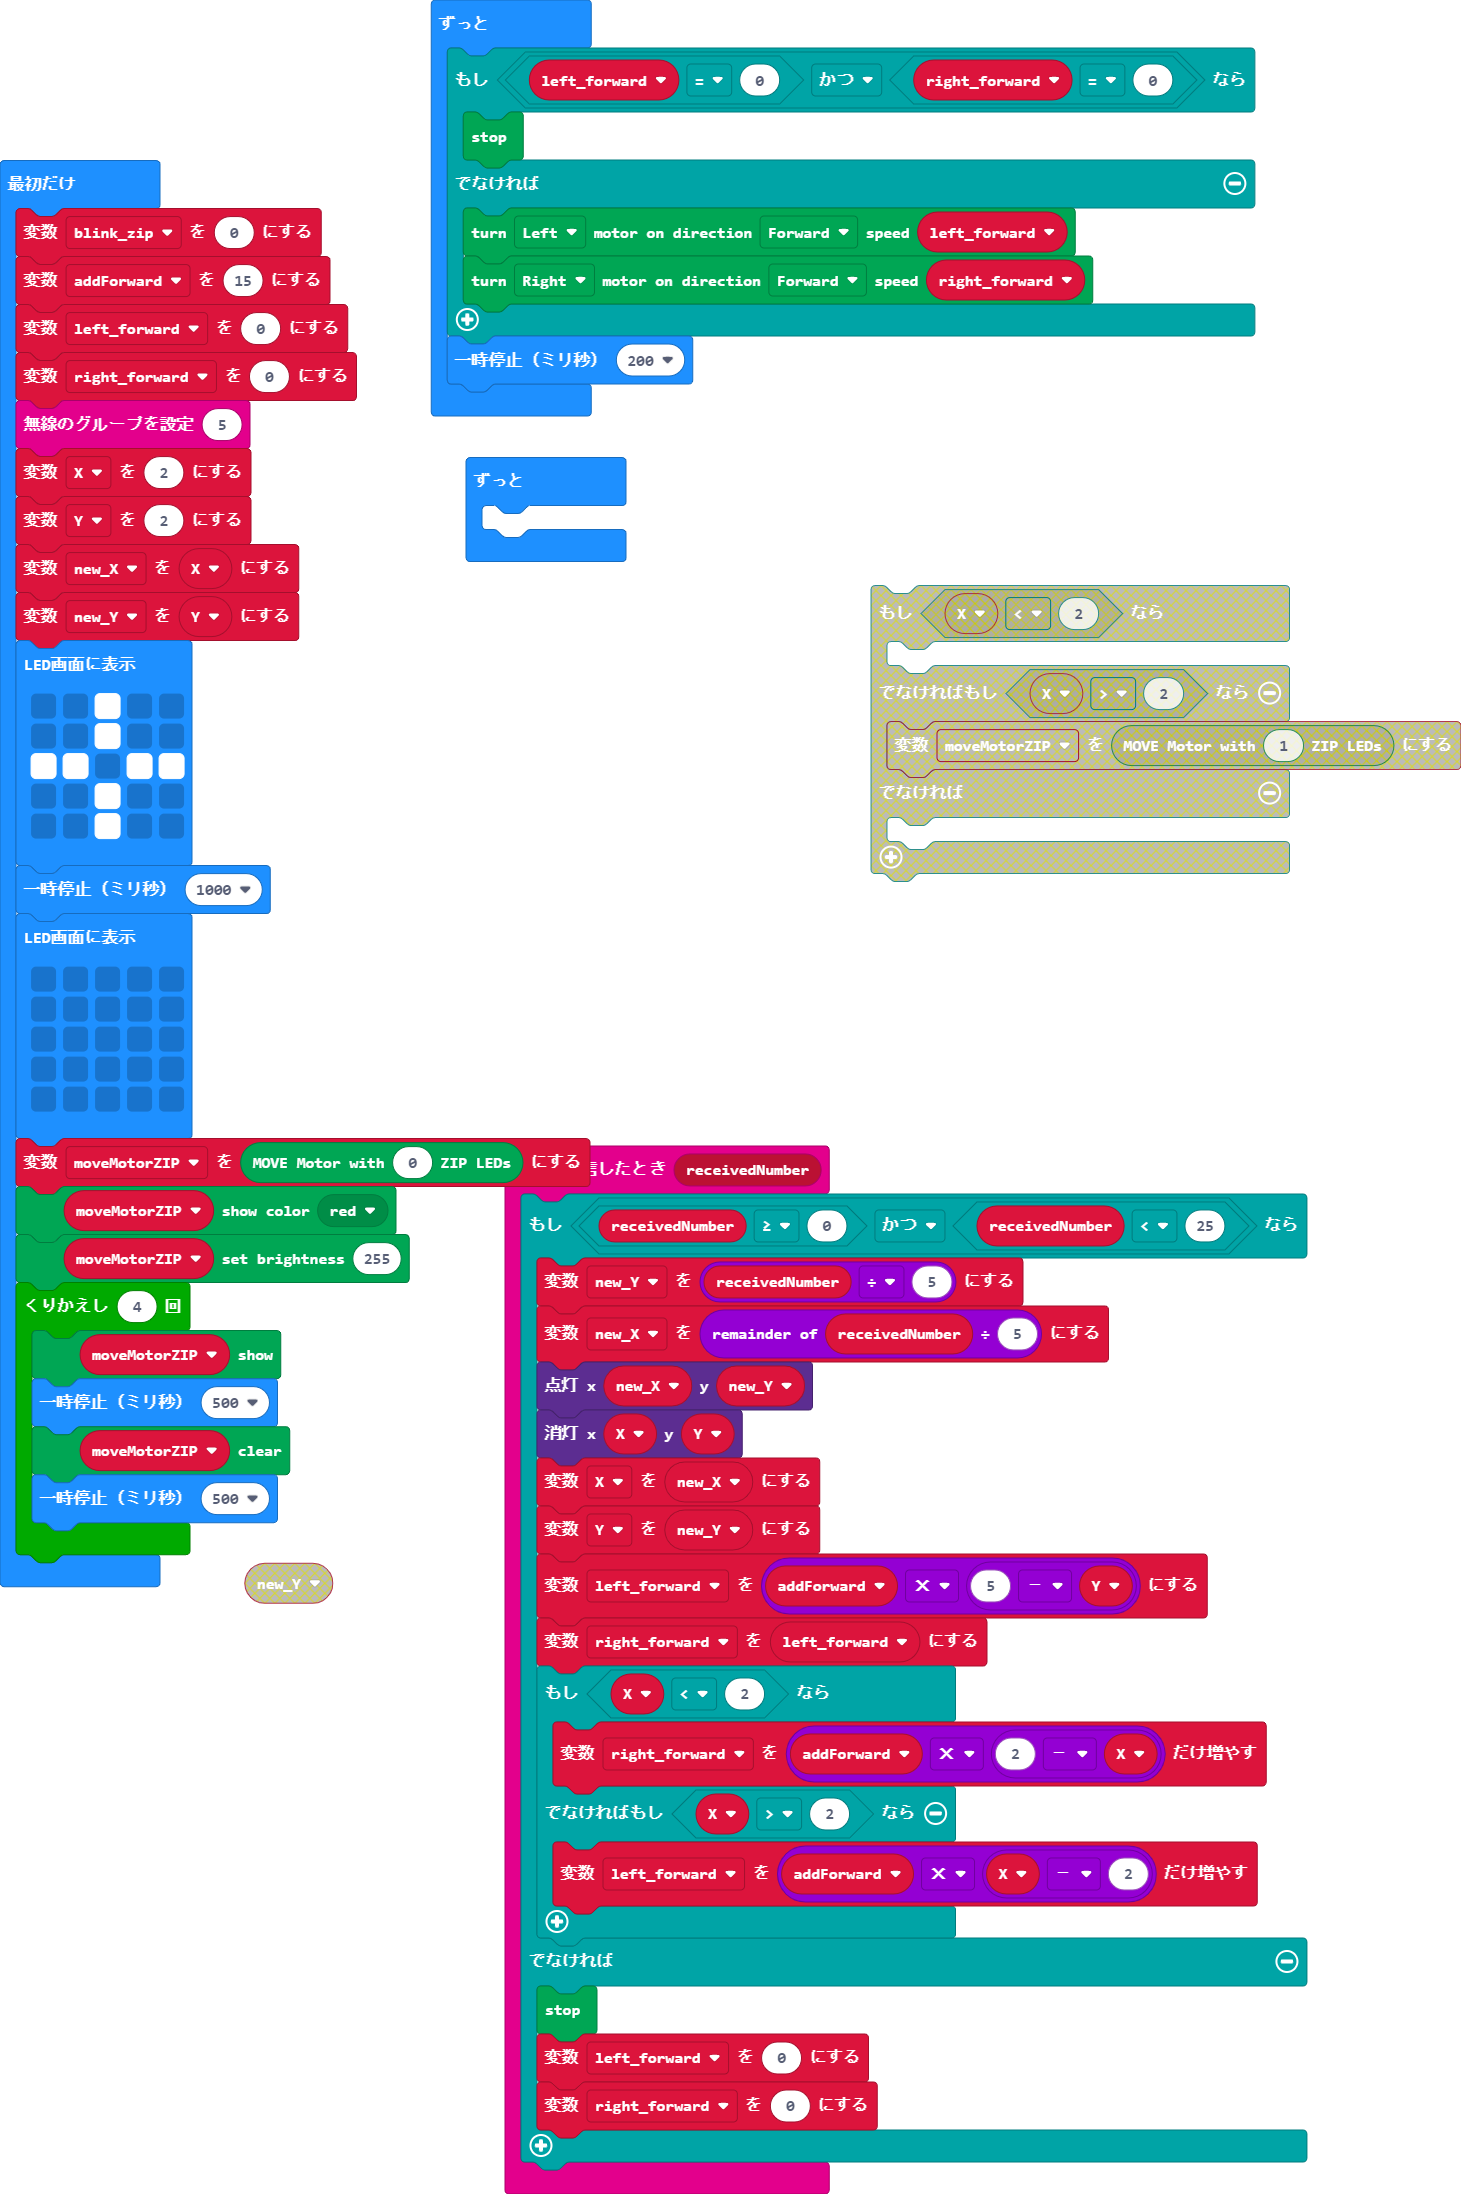
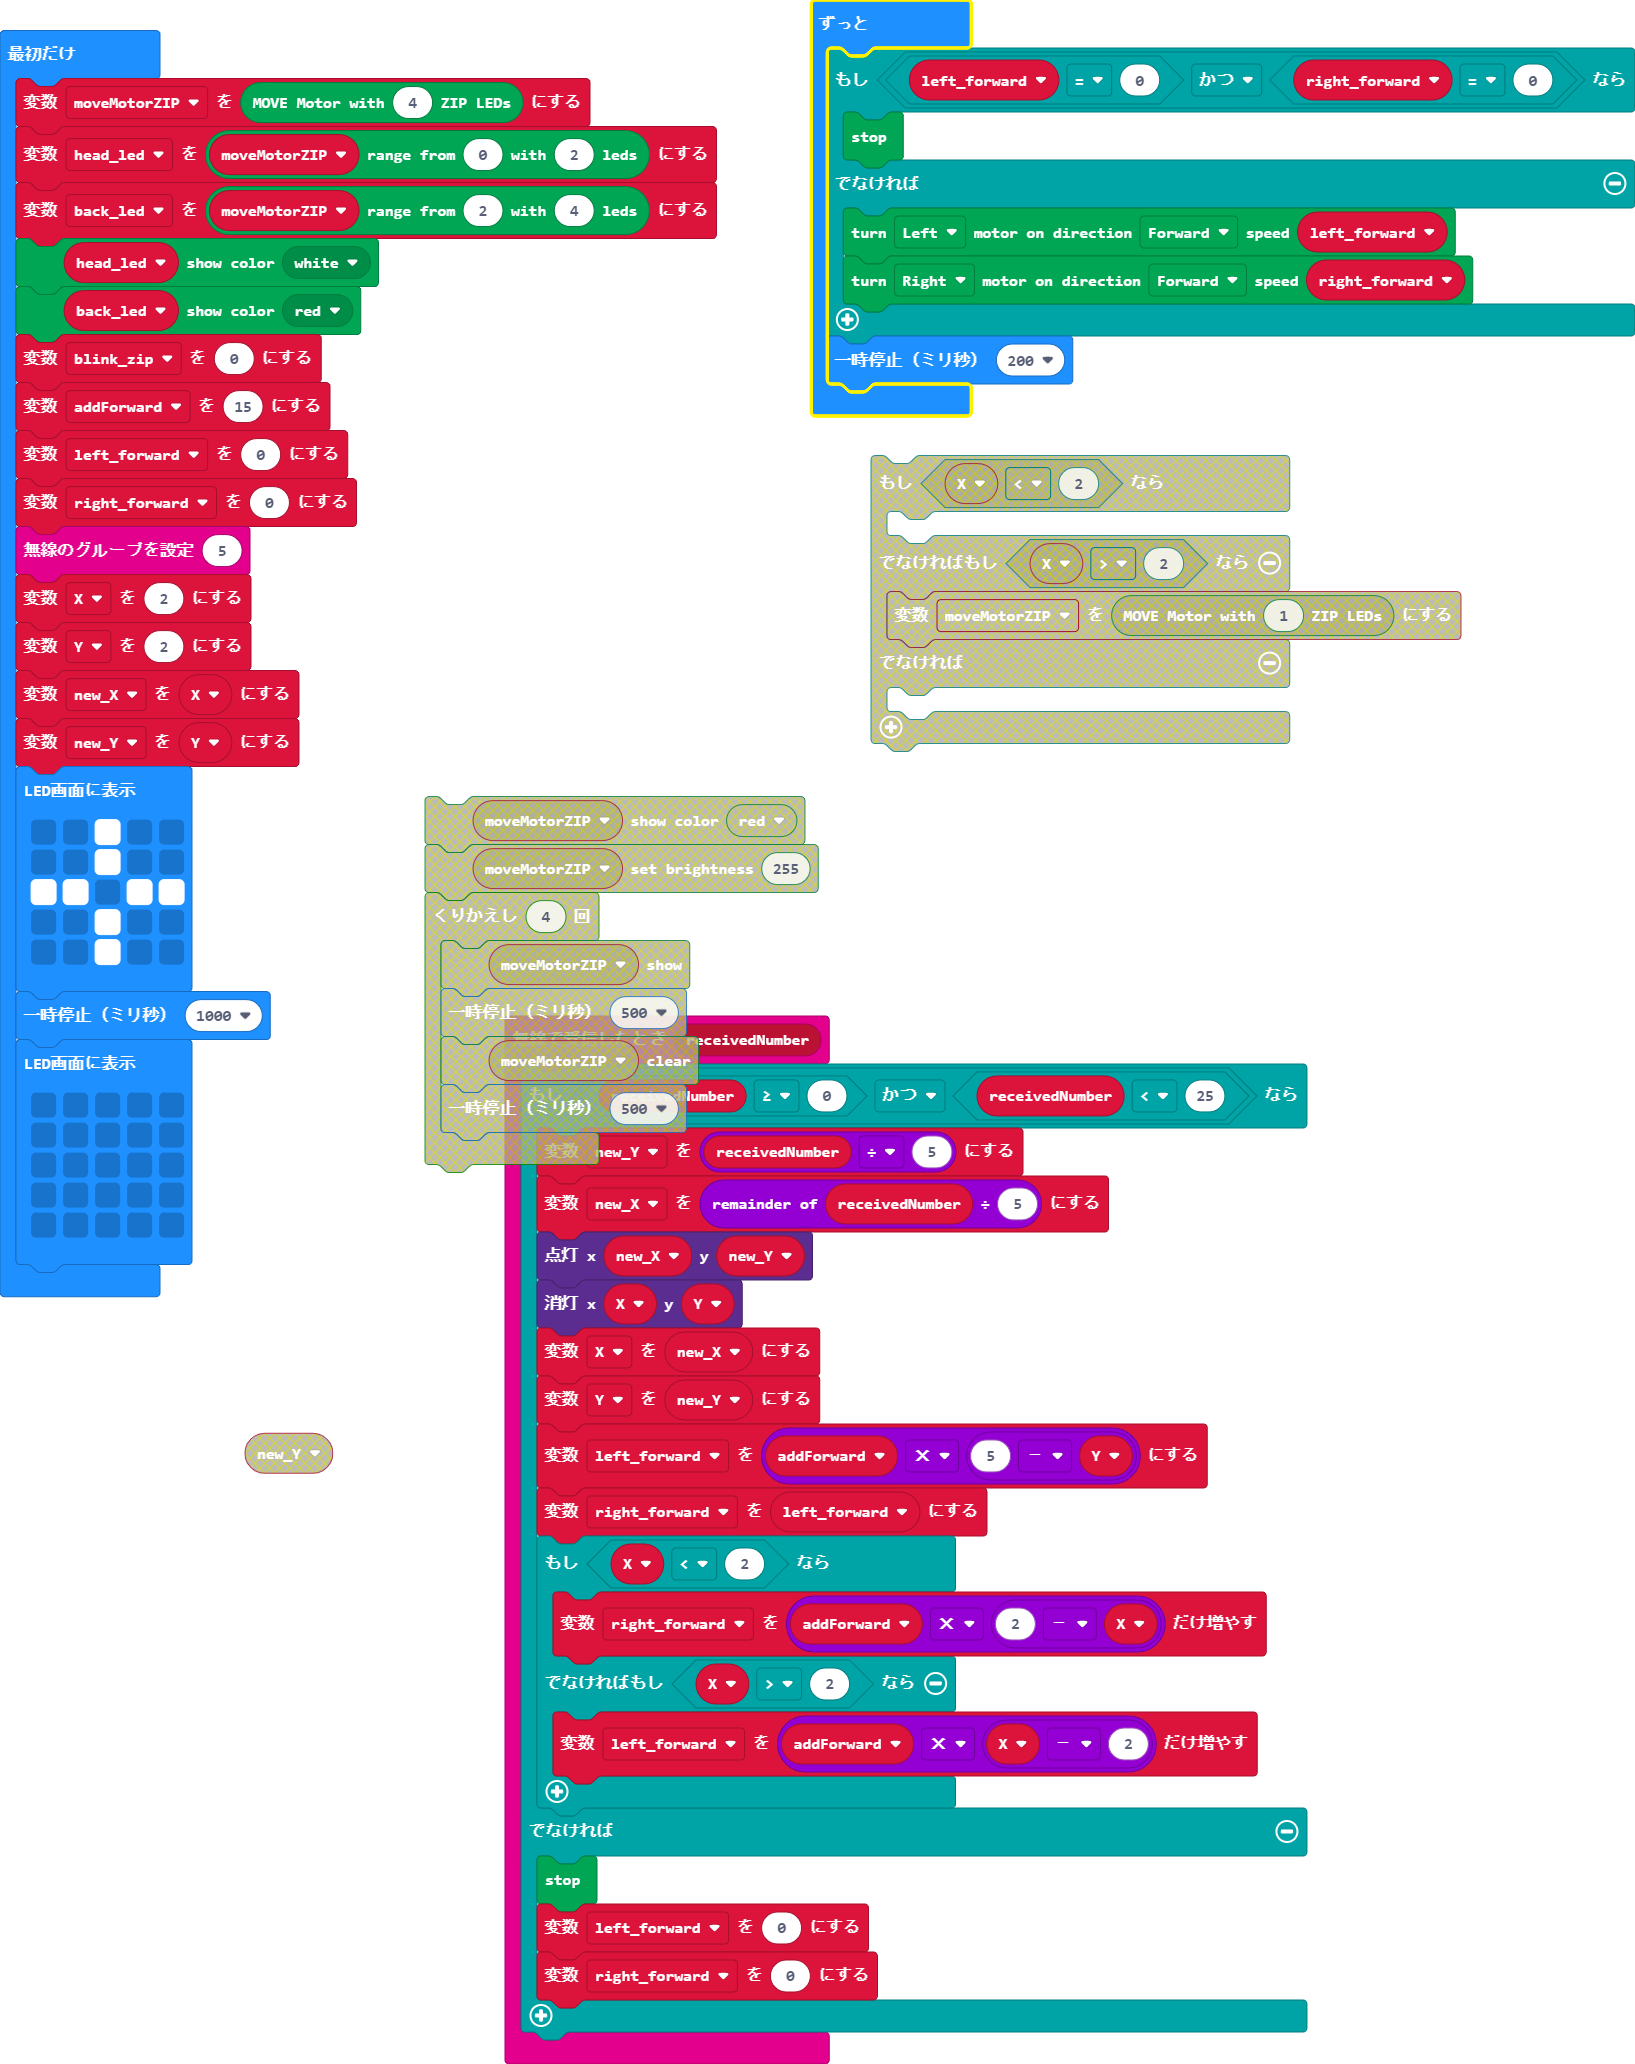
更新 main.blocks, main.ts

diff --git a/main.ts b/main.ts
@@ -26,6 +26,11 @@ let X = 0
 let right_forward = 0
 let left_forward = 0
 let addForward = 0
+let moveMotorZIP = Kitronik_Move_Motor.createMoveMotorZIPLED(4)
+let head_led = moveMotorZIP.range(0, 2)
+let back_led = moveMotorZIP.range(2, 4)
+head_led.showColor(Kitronik_Move_Motor.colors(Kitronik_Move_Motor.ZipLedColors.White))
+back_led.showColor(Kitronik_Move_Motor.colors(Kitronik_Move_Motor.ZipLedColors.Red))
 let blink_zip = 0
 addForward = 15
 left_forward = 0
@@ -50,15 +55,6 @@ basic.showLeds(`
     . . . . .
     . . . . .
     `)
-let moveMotorZIP = Kitronik_Move_Motor.createMoveMotorZIPLED(0)
-moveMotorZIP.showColor(Kitronik_Move_Motor.colors(Kitronik_Move_Motor.ZipLedColors.Red))
-moveMotorZIP.setBrightness(255)
-for (let index = 0; index < 4; index++) {
-    moveMotorZIP.show()
-    basic.pause(500)
-    moveMotorZIP.clear()
-    basic.pause(500)
-}
 basic.forever(function () {
     if (left_forward == 0 && right_forward == 0) {
         Kitronik_Move_Motor.stop()
@@ -67,7 +63,4 @@ basic.forever(function () {
         Kitronik_Move_Motor.motorOn(Kitronik_Move_Motor.Motors.MotorRight, Kitronik_Move_Motor.MotorDirection.Forward, right_forward)
     }
     basic.pause(200)
-})
-basic.forever(function () {
-	
 })
